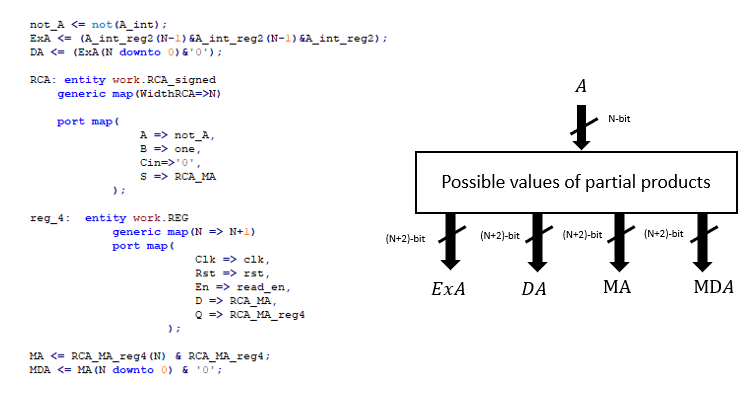
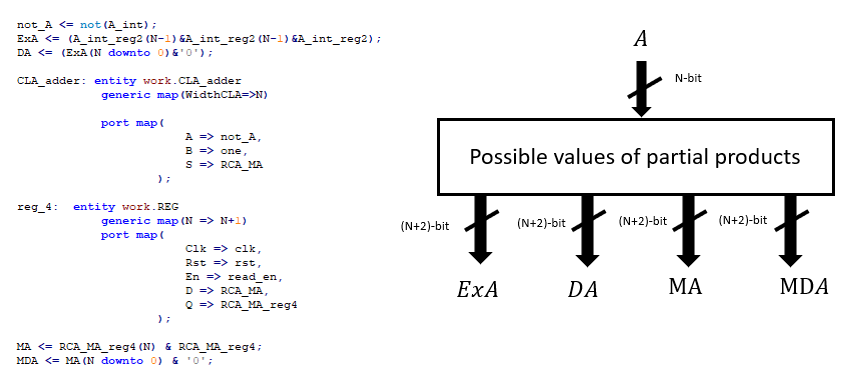
update image

diff --git a/README.md b/README.md
@@ -102,7 +102,7 @@ The structural block diagram is as follows:
 1. **Booth Encoder and Decoder:** Coding of multiplier triples and generation of partial products.  
 To generate the corresponding encoded digit, the encoder was implemented with a combinational network that uses the "<em>modulus and sign</em>" representation (MSB indicates the sign, while the other two bits quantify the modulus). This combinational circuit allows for circuit-level simplifications; in particular, it ensures a reduction in decoder fan-in (5:1 MUX instead of 8:1 MUX) and, consequently, a reduction in power dissipation.  
 ![Encoder circuit](https://github.com/ElecGiuseppe-lab/Radix-4_Booth_Multiplier/blob/master/img/encoder_combinatorial_logic.png)
-2. **Pre-calculation logic:** To preliminarily calculate all the possible partial products (`ExA`->`A`, `DA`->`2A`, `MA`->`-A`, `MDA`->`-2A`). An RCA is used to generate the partial product `-A`.
+2. **Pre-calculation logic:** To preliminarily calculate all the possible partial products (`ExA`->`A`, `DA`->`2A`, `MA`->`-A`, `MDA`->`-2A`). An CLA adder is used to generate the partial product `-A`.
 ![pre-calculation logic](https://github.com/ElecGiuseppe-lab/Radix-4_Booth_Multiplier/blob/master/img/Pre-calculation_logic.png)
 > [!NOTE]
 > The partial product '0' is processed directly in the decoder module as it is a constant.
